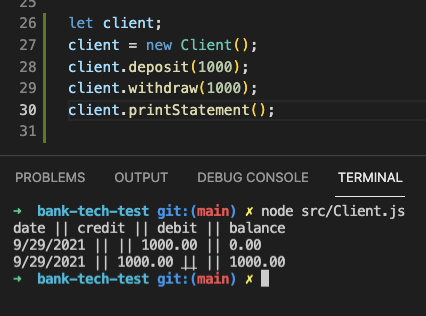
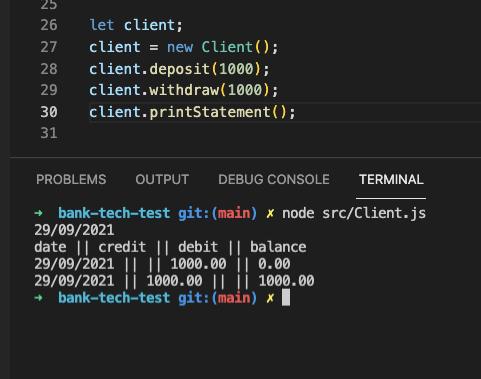
added function to return correct date format and updated the tests. Also added new example screenshot with correct formatting

Changed region(s): [[0.0, 0.0, 1.0, 0.9114], [0.1526, 0.0285, 0.6408, 0.3703]]

diff --git a/spec/AccountStatementSpec.js b/spec/AccountStatementSpec.js
@@ -47,7 +47,9 @@ describe('AccountStatement', function () {
         )
       ).toEqual([
         `date || credit || debit || balance`,
-        `${currentDate.toLocaleDateString()} || 1000.00 || || 1000.00`,
+        `${accountStatement._dateConverter(
+          currentDate
+        )} || 1000.00 || || 1000.00`,
       ]);
     });
 
@@ -60,8 +62,12 @@ describe('AccountStatement', function () {
         )
       ).toEqual([
         `date || credit || debit || balance`,
-        `${currentDate.toLocaleDateString()} || 1000.00 || || 2000.00`,
-        `${currentDate.toLocaleDateString()} || 1000.00 || || 1000.00`,
+        `${accountStatement._dateConverter(
+          currentDate
+        )} || 1000.00 || || 2000.00`,
+        `${accountStatement._dateConverter(
+          currentDate
+        )} || 1000.00 || || 1000.00`,
       ]);
     });
 
@@ -78,9 +84,15 @@ describe('AccountStatement', function () {
         )
       ).toEqual([
         `date || credit || debit || balance`,
-        `${currentDate.toLocaleDateString()} || || 1000.00 || 1000.00`,
-        `${currentDate.toLocaleDateString()} || 1000.00 || || 2000.00`,
-        `${currentDate.toLocaleDateString()} || 1000.00 || || 1000.00`,
+        `${accountStatement._dateConverter(
+          currentDate
+        )} || || 1000.00 || 1000.00`,
+        `${accountStatement._dateConverter(
+          currentDate
+        )} || 1000.00 || || 2000.00`,
+        `${accountStatement._dateConverter(
+          currentDate
+        )} || 1000.00 || || 1000.00`,
       ]);
     });
     it('returns correct account statement after two deposit transactions on different dates', function () {
@@ -95,8 +107,12 @@ describe('AccountStatement', function () {
         )
       ).toEqual([
         `date || credit || debit || balance`,
-        `${followingDay.toLocaleDateString()} || 2000.00 || || 3000.00`,
-        `${currentDate.toLocaleDateString()} || 1000.00 || || 1000.00`,
+        `${accountStatement._dateConverter(
+          followingDay
+        )} || 2000.00 || || 3000.00`,
+        `${accountStatement._dateConverter(
+          currentDate
+        )} || 1000.00 || || 1000.00`,
       ]);
     });
 
@@ -117,9 +133,15 @@ describe('AccountStatement', function () {
         )
       ).toEqual([
         `date || credit || debit || balance`,
-        `${twoDaysAfter.toLocaleDateString()} || 2000.00 || || 5000.00`,
-        `${followingDay.toLocaleDateString()} || 2000.00 || || 3000.00`,
-        `${currentDate.toLocaleDateString()} || 1000.00 || || 1000.00`,
+        `${accountStatement._dateConverter(
+          twoDaysAfter
+        )} || 2000.00 || || 5000.00`,
+        `${accountStatement._dateConverter(
+          followingDay
+        )} || 2000.00 || || 3000.00`,
+        `${accountStatement._dateConverter(
+          currentDate
+        )} || 1000.00 || || 1000.00`,
       ]);
     });
 
@@ -140,9 +162,15 @@ describe('AccountStatement', function () {
         )
       ).toEqual([
         `date || credit || debit || balance`,
-        `${twoDaysAfter.toLocaleDateString()} || || 1000.00 || 2000.00`,
-        `${followingDay.toLocaleDateString()} || 2000.00 || || 3000.00`,
-        `${currentDate.toLocaleDateString()} || 1000.00 || || 1000.00`,
+        `${accountStatement._dateConverter(
+          twoDaysAfter
+        )} || || 1000.00 || 2000.00`,
+        `${accountStatement._dateConverter(
+          followingDay
+        )} || 2000.00 || || 3000.00`,
+        `${accountStatement._dateConverter(
+          currentDate
+        )} || 1000.00 || || 1000.00`,
       ]);
     });
   });

diff --git a/src/AccountStatement.js b/src/AccountStatement.js
@@ -44,7 +44,14 @@ class AccountStatement {
   }
 
   _createDateString(transactionDate) {
-    return `${transactionDate.toLocaleDateString('en-GB')} || `;
+    return `${this._dateConverter(transactionDate)} || `;
+  }
+
+  _dateConverter(date) {
+    const dd = String(date.getDate()).padStart(2, '0');
+    const mm = String(date.getMonth() + 1).padStart(2, '0'); //January is 0!
+    const yyyy = date.getFullYear();
+    return dd + '/' + mm + '/' + yyyy;
   }
 
   _createDepositString(amount) {
@@ -57,3 +64,6 @@ class AccountStatement {
 }
 
 module.exports = AccountStatement;
+
+let as = new AccountStatement();
+console.log(as._dateConverter(new Date()));

diff --git a/src/Client.js b/src/Client.js
@@ -22,9 +22,3 @@ class Client {
 }
 
 module.exports = Client;
-
-let client;
-client = new Client();
-client.deposit(1000);
-client.withdraw(1000);
-client.printStatement();
